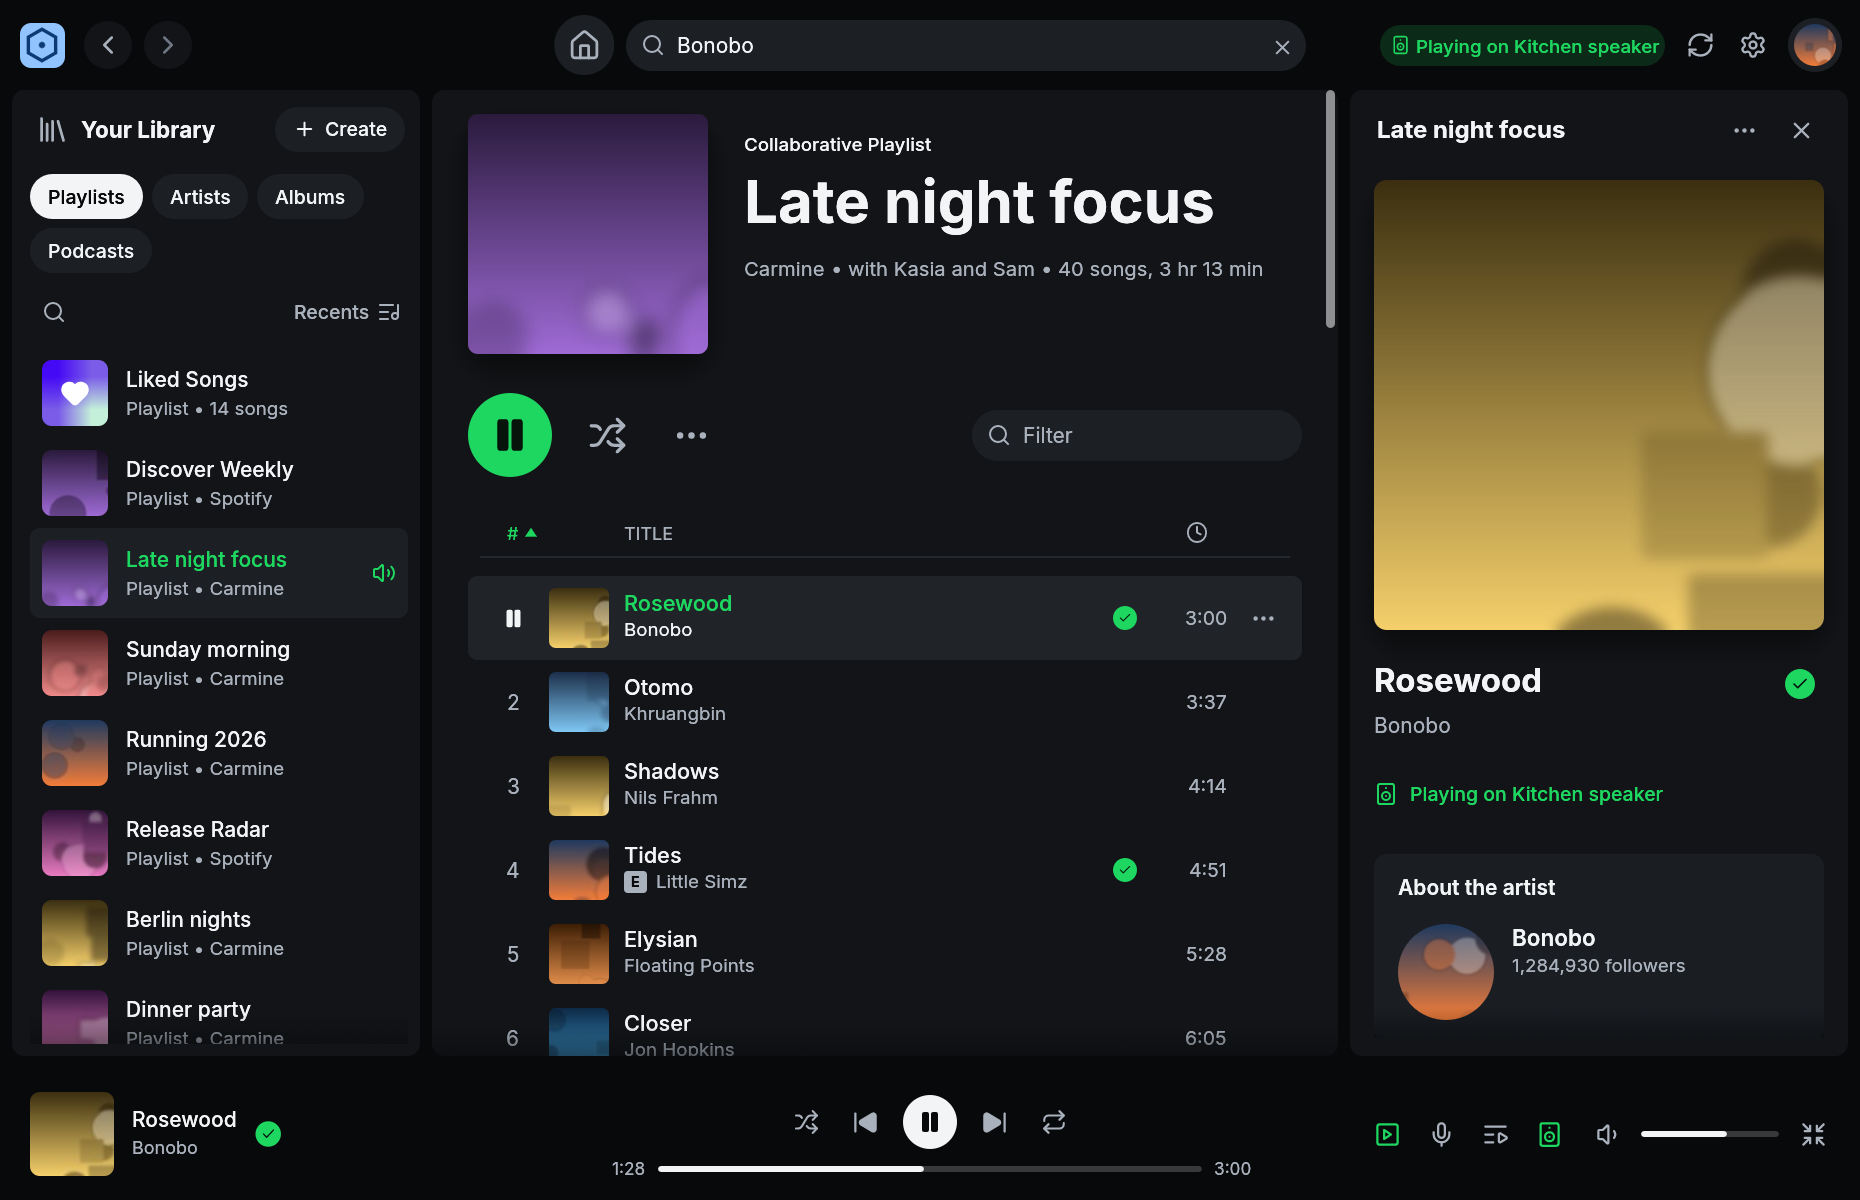
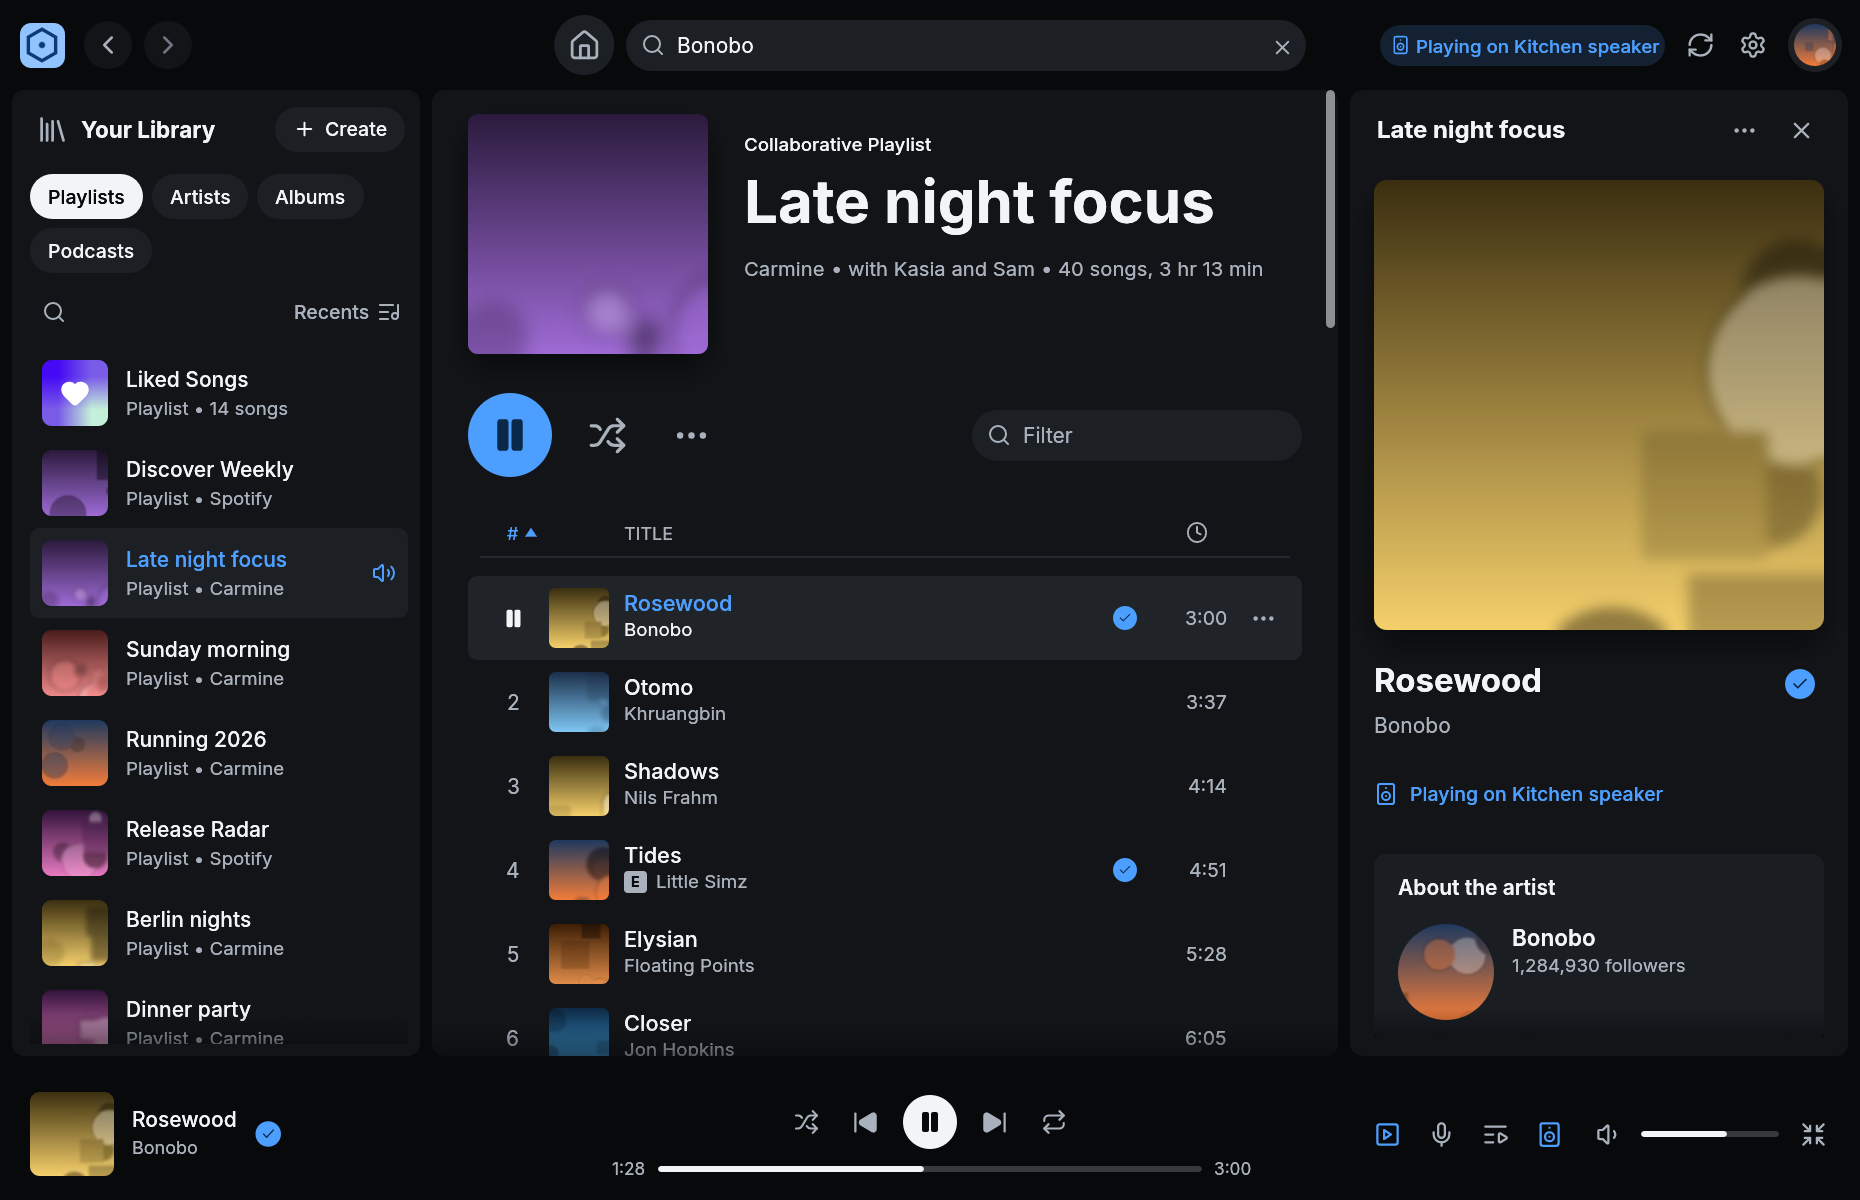
Keep blue as the default accent
Blue is Oxidify's own colour and stays the default; green is the
choice under Settings → Appearance rather than the other way round.
Older settings files without an accent keep blue, the demo flag opts
into green, and the screenshot and the 0.5.0 notes show the blue.

Claude-Session: https://claude.ai/code/session_01318pfgi7MjSJbbDJ5Gtftv

diff --git a/src/settings.rs b/src/settings.rs
@@ -46,23 +46,23 @@ impl ThemeChoice {
     }
 }
 
-/// The colour that marks what is playing, selected, and saved. Green is
-/// the one Spotify's own client uses; blue is Oxidify's older accent.
+/// The colour that marks what is playing, selected, and saved. Blue is
+/// Oxidify's own; green is offered for those who want it.
 #[derive(Clone, Copy, Debug, Default, PartialEq, Eq, Serialize, Deserialize)]
 #[serde(rename_all = "lowercase")]
 pub enum Accent {
     #[default]
-    Green,
     Blue,
+    Green,
 }
 
 impl Accent {
-    pub const ALL: [Accent; 2] = [Self::Green, Self::Blue];
+    pub const ALL: [Accent; 2] = [Self::Blue, Self::Green];
 
     pub fn label(self) -> &'static str {
         match self {
-            Self::Green => "Green",
             Self::Blue => "Blue",
+            Self::Green => "Green",
         }
     }
 }
@@ -111,7 +111,7 @@ pub struct Settings {
     pub audio_cache: bool,
     pub audio_cache_mb: u64,
     pub theme: ThemeChoice,
-    /// The accent colour: green as in Spotify's client, or the older blue.
+    /// The accent colour: Oxidify's blue, or green.
     pub accent: Accent,
     /// Tint the interface with the colour of the playing album's art.
     pub accent_from_art: bool,
@@ -212,7 +212,7 @@ impl Default for Settings {
             audio_cache: true,
             audio_cache_mb: 1024,
             theme: ThemeChoice::Dark,
-            accent: Accent::Green,
+            accent: Accent::Blue,
             accent_from_art: true,
             volume: (u16::MAX as u32 * 70 / 100) as u16,
             sidebar_visible: true,
@@ -401,17 +401,17 @@ mod tests {
     }
 
     #[test]
-    fn older_settings_take_the_green_accent_and_keep_blue_when_chosen() {
+    fn older_settings_keep_the_blue_accent_and_green_stays_when_chosen() {
         let settings: Settings = serde_json::from_str("{}").unwrap();
-        assert_eq!(settings.accent, super::Accent::Green);
+        assert_eq!(settings.accent, super::Accent::Blue);
         assert!(!settings.sidebar_grid);
-        let blue: Settings =
-            serde_json::from_str(r#"{"accent": "blue", "sidebar_grid": true}"#).unwrap();
-        assert_eq!(blue.accent, super::Accent::Blue);
-        assert!(blue.sidebar_grid);
-        let json = serde_json::to_string(&blue).unwrap();
+        let green: Settings =
+            serde_json::from_str(r#"{"accent": "green", "sidebar_grid": true}"#).unwrap();
+        assert_eq!(green.accent, super::Accent::Green);
+        assert!(green.sidebar_grid);
+        let json = serde_json::to_string(&green).unwrap();
         let restored: Settings = serde_json::from_str(&json).unwrap();
-        assert_eq!(restored.accent, super::Accent::Blue);
+        assert_eq!(restored.accent, super::Accent::Green);
     }
 
     #[test]

diff --git a/src/theme.rs b/src/theme.rs
@@ -78,9 +78,9 @@ impl Palette {
         }
     }
 
-    /// The palette with the chosen accent. Green is Spotify's own, bright
-    /// on dark and deepened on light so it still reads as text; blue is the
-    /// accent Oxidify shipped with before.
+    /// The palette with the chosen accent. Blue is Oxidify's own; green is
+    /// the alternative, bright on dark and deepened on light so it still
+    /// reads as text.
     pub fn with_accent(mut self, accent: crate::settings::Accent) -> Self {
         use crate::settings::Accent;
         let (accent, hover, on_accent) = match (accent, self.dark) {
@@ -979,15 +979,14 @@ mod tests {
         }
     }
 
-    /// The default accent is the green of Spotify's own client, as the
-    /// maintainer asked for with the current layout; blue stays as a
-    /// choice. Both keep their text readable on the accent in both themes,
-    /// and the accent itself reads as text on every layer in light mode,
-    /// where the playing title is drawn in it.
+    /// The default accent is Oxidify's blue; green is a choice. Both keep
+    /// their text readable on the accent in both themes, and the accent
+    /// itself reads as text on every layer in light mode, where the
+    /// playing title is drawn in it.
     #[test]
-    fn green_is_the_default_accent_and_blue_stays_readable_too() {
+    fn blue_is_the_default_accent_and_green_stays_readable_too() {
         use crate::settings::Accent;
-        assert_eq!(Accent::default(), Accent::Green);
+        assert_eq!(Accent::default(), Accent::Blue);
         for accent in Accent::ALL {
             for palette in [
                 Palette::dark().with_accent(accent),

diff --git a/src/demo.rs b/src/demo.rs
@@ -580,7 +580,7 @@ pub fn apply_flags(app: &mut App, page: Option<&str>, show: Option<&str>) {
             "now-playing" => app.show_now_playing_panel = true,
             "collapsed" => app.settings.sidebar_collapsed = true,
             "grid" => app.settings.sidebar_grid = true,
-            "blue" => app.settings.accent = crate::settings::Accent::Blue,
+            "green" => app.settings.accent = crate::settings::Accent::Green,
             "podcasts" => app.home.filter = HomeFilter::Podcasts,
             "devices" => app.show_devices = true,
             "shortcuts" => app.dialog = Some(Dialog::Shortcuts),
@@ -832,14 +832,15 @@ mod tests {
             frame(&ctx, &mut app);
         }
         app.settings.sidebar_grid = false;
-        app.settings.accent = crate::settings::Accent::Blue;
-        app.actions.push(Action::SettingsChanged);
-        frame(&ctx, &mut app);
         assert!(app.palette.accent.b() > app.palette.accent.g());
         app.settings.accent = crate::settings::Accent::Green;
         app.actions.push(Action::SettingsChanged);
         frame(&ctx, &mut app);
         assert!(app.palette.accent.g() > app.palette.accent.b());
+        app.settings.accent = crate::settings::Accent::Blue;
+        app.actions.push(Action::SettingsChanged);
+        frame(&ctx, &mut app);
+        assert!(app.palette.accent.b() > app.palette.accent.g());
         app.show_now_playing_panel = false;
         for dialog in [
             Dialog::Shortcuts,

diff --git a/src/ui/settings.rs b/src/ui/settings.rs
@@ -687,7 +687,7 @@ pub fn show(app: &mut App, ui: &mut egui::Ui) {
             ui,
             &palette,
             "Accent",
-            "Green, as in Spotify's client, or the blue Oxidify used before.",
+            "Oxidify's blue, or a green.",
             |ui| {
                 ui.horizontal(|ui| {
                     ui.spacing_mut().item_spacing.x = 6.0;

diff --git a/packaging/release-notes/v0.5.0.md b/packaging/release-notes/v0.5.0.md
@@ -1,6 +1,6 @@
 # Oxidify 0.5.0
 
-Search shows results as they arrive, the Liked Songs control works the way Spotify's does, the accent is Spotify's green, alternate playback keeps honest time, and the library can be a grid.
+Search shows results as they arrive, the Liked Songs control works in two presses, alternate playback keeps honest time, and the library can be a grid.
 
 ## Search is fast again
 
@@ -10,21 +10,17 @@ A search used to be one request for every kind of result, sent through the share
 
 The plus beside a song adds it to Liked Songs. Once the song is there, the check that replaces it no longer removes it on a slip of the mouse: it opens where else the song can go. **Remove from Liked Songs** sits at the top, then the playlists you can edit, filtered as you type; Enter adds to the first match, and playlists that already hold the song show a check. The same control sits in every track row, the player bar, and the Now Playing view. The player bar's right-click menu also offers **Remove from this playlist** while a song plays from a playlist you can edit.
 
-## Green, as in Spotify
-
-The accent is now the green of Spotify's own client, bright on dark and deepened on light so playing titles stay readable; **Settings → Appearance → Accent** brings back the blue Oxidify used before. The Liked Songs tile has Spotify's violet-to-mint gradient with a white heart, and the player bar fades from one song's colour to the next instead of jumping.
-
 ## Alternate playback keeps time
 
 A third-party match is rarely exactly as long as Spotify's recording, and the bar used to count against Spotify's length: the position stuck at the end while the audio played on, or the song ended with time still showing. The bar now takes the matched recording's own length as soon as its headers are decoded, so the time, the end, and seeking follow what is actually playing.
 
-## From Spotifast
+## Library, lyrics, and colour
 
-Three improvements from the sister project, reworked for Oxidify: the library's view control gains a **Grid** of covers beside the list and compact rows, each tile opening, taking a dropped song, and answering a right-click like its row; the line being sung sits a third of the way down the lyrics panel so the lines to come fill the view; and settings too narrow for a control beside its words put the control on its own line.
+The library's view control gains a **Grid** of covers beside the list and compact rows, each tile opening, taking a dropped song, and answering a right-click like its row. The Liked Songs tile has a violet-to-mint gradient with a white heart. The line being sung sits a third of the way down the lyrics panel so the lines to come fill the view. Settings too narrow for a control beside its words put the control on its own line. The player bar fades from one song's colour to the next instead of jumping. The accent stays Oxidify's blue, deepened on the light theme so playing titles stay readable; **Settings → Appearance → Accent** offers a green instead.
 
 ## Compatibility
 
-Settings files from earlier versions load unchanged: the accent is green unless `accent` says `blue`, and the library opens as a list unless `sidebar_grid` is set. Free-account alternate playback keeps its routing; this update adds no Spotify playback capability to Free accounts.
+Settings files from earlier versions load unchanged: the accent is blue unless `accent` says `green`, and the library opens as a list unless `sidebar_grid` is set. Free-account alternate playback keeps its routing; this update adds no Spotify playback capability to Free accounts.
 
 ## Downloads
 

diff --git a/docs/_guide/using-oxidify.md b/docs/_guide/using-oxidify.md
@@ -106,8 +106,8 @@ filter restores the Add to playlist menu's full scrollable height.
 Adding a song that is already in the playlist asks first. Dropping a song on
 Liked Songs saves it. Playlists you follow can be followed and unfollowed.
 
-Settings → Appearance chooses the accent, green as in Spotify's client or
-the older blue, and can show track tables as one-line rows without covers;
+Settings → Appearance chooses the accent, Oxidify's blue or a green, and
+can show track tables as one-line rows without covers;
 the library's own view control chooses between full rows, compact rows, and
 the grid. Date added is relative for the first month.
 The date column is hidden when no real dates are available; rows with missing

diff --git a/README.md b/README.md
@@ -88,8 +88,8 @@ getting started, everyday use, and how it connects to Spotify.
 - **Album-art colour.** Pages and the player bar can take a tint from the
   cover of what you are looking at or listening to, and the bar fades from
   one song's colour to the next. Turn it off in Settings and the interface
-  stays in its neutral chrome. The accent is the green of Spotify's own
-  client; Settings → Appearance brings back the older blue.
+  stays in its neutral chrome. The accent is Oxidify's blue; Settings →
+  Appearance offers a green instead.
 - **Light and dark**, or follow the system.
 - **Winamp mini player.** `Ctrl+M`, or the button at the right end of the
   player bar, turns the window into a tiny player that

diff --git a/docs/_reference/settings-and-files.md b/docs/_reference/settings-and-files.md
@@ -105,7 +105,7 @@ interface work. Demo mode never writes settings.
 
 `--demo-page` opens a page, such as `home`, `playlist:pl1`, or `artist:art0`,
 and `--demo-show` adds surfaces on top of it: a comma separated list of
-`queue`, `now-playing`, `collapsed`, `grid`, `blue`, `podcasts`, `devices`,
+`queue`, `now-playing`, `collapsed`, `grid`, `green`, `podcasts`, `devices`,
 `shortcuts`, `create`, `light`, `focus`, `login`, `winamp`, `playlist`, and
 `eq`.
 
